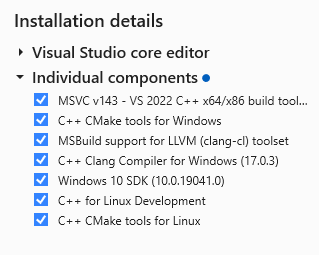
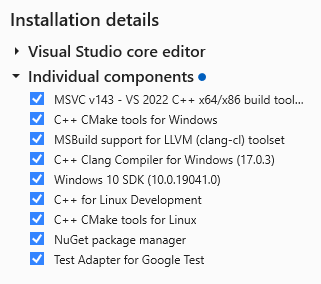
updates

diff --git a/tests/type_system/TestDefenum.cpp b/tests/type_system/TestDefenum.cpp
@@ -33,8 +33,8 @@ TEST_F(DefEnumTest, DebugSimpleEnum) {
     try {
         EnumType* test_enum = parse_deftype_string(code);
         ASSERT_NE(test_enum, nullptr);
-        fmt::print("DEBUG: Enum name: '{}'\n", test_enum->name());
-        EXPECT_EQ(test_enum->name(), "test");
+        fmt::print("DEBUG: Enum name: '{}'\n", test_enum->get_name());
+        EXPECT_EQ(test_enum->get_name(), "test");
     }
     catch (const std::exception& e) {
         fmt::print("ERROR: {}\n", e.what());
@@ -49,7 +49,7 @@ TEST_F(DefEnumTest, BasicEnum) {
 
     EnumType* color_enum = parse_deftype_string(code);
     ASSERT_NE(color_enum, nullptr);
-    EXPECT_EQ(color_enum->name(), "color");
+    EXPECT_EQ(color_enum->get_name(), "color");
     EXPECT_FALSE(color_enum->is_bitfield());
 }
 
@@ -61,7 +61,7 @@ TEST_F(DefEnumTest, BitfieldEnum) {
 
     EnumType* flags_enum = parse_deftype_string(code);
     ASSERT_NE(flags_enum, nullptr);
-    EXPECT_EQ(flags_enum->name(), "flags");
+    EXPECT_EQ(flags_enum->get_name(), "flags");
     EXPECT_TRUE(flags_enum->is_bitfield());
 }
 
@@ -71,7 +71,7 @@ TEST_F(DefEnumTest, EnumWithExplicitValues) {
 
     EnumType* weapon_enum = parse_deftype_string(code);
     ASSERT_NE(weapon_enum, nullptr);
-    EXPECT_EQ(weapon_enum->name(), "weapon");
+    EXPECT_EQ(weapon_enum->get_name(), "weapon");
 }
 
 TEST_F(DefEnumTest, EnumWithType) {
@@ -80,7 +80,7 @@ TEST_F(DefEnumTest, EnumWithType) {
 
     EnumType* small_enum = parse_deftype_string(code);
     ASSERT_NE(small_enum, nullptr);
-    EXPECT_EQ(small_enum->name(), "small");
+    EXPECT_EQ(small_enum->get_name(), "small");
 }
 
 TEST_F(DefEnumTest, EnumWithDocstring) {
@@ -96,7 +96,7 @@ TEST_F(DefEnumTest, EnumWithDocstring) {
         DefinitionMetadata metadata;
         EnumType* state_enum = parse_deftype_string(code, &metadata);
         ASSERT_NE(state_enum, nullptr);
-        EXPECT_EQ(state_enum->name(), "state");
+        EXPECT_EQ(state_enum->get_name(), "state");
         EXPECT_TRUE(metadata.has_docstring());
         EXPECT_EQ(metadata.get_docstring_or_empty(), "State machine states");
     }
@@ -111,7 +111,7 @@ TEST_F(DefEnumTest, MixedAutoAndExplicitValues) {
 
     EnumType* mixed_enum = parse_deftype_string(code);
     ASSERT_NE(mixed_enum, nullptr);
-    EXPECT_EQ(mixed_enum->name(), "mixed");
+    EXPECT_EQ(mixed_enum->get_name(), "mixed");
 }
 
 
@@ -150,7 +150,7 @@ TEST_F(DefEnumTest, EmptyEnum) {
     try {
         EnumType* empty_enum = parse_deftype_string(code);
         ASSERT_NE(empty_enum, nullptr);
-        EXPECT_EQ(empty_enum->name(), "empty");
+        EXPECT_EQ(empty_enum->get_name(), "empty");
     }
     catch (const std::exception& e) {
         FAIL() << "Exception: " << e.what();
@@ -163,7 +163,7 @@ TEST_F(DefEnumTest, EnumWithFalseBitfield) {
     try {
         EnumType* normal_enum = parse_deftype_string(code);
         ASSERT_NE(normal_enum, nullptr);
-        EXPECT_EQ(normal_enum->name(), "normal");
+        EXPECT_EQ(normal_enum->get_name(), "normal");
         EXPECT_FALSE(normal_enum->is_bitfield());
     }
     catch (const std::exception& e) {
@@ -181,7 +181,7 @@ TEST_F(DefEnumTest, LargeEnum) {
     try {
         EnumType* big_enum = parse_deftype_string(code);
         ASSERT_NE(big_enum, nullptr);
-        EXPECT_EQ(big_enum->name(), "big-enum");
+        EXPECT_EQ(big_enum->get_name(), "big-enum");
     }
     catch (const std::exception& e) {
         FAIL() << "Exception: " << e.what();
@@ -194,7 +194,7 @@ TEST_F(DefEnumTest, EnumWithNegativeValues) {
     try {
         EnumType* signed_enum = parse_deftype_string(code);
         ASSERT_NE(signed_enum, nullptr);
-        EXPECT_EQ(signed_enum->name(), "signed");
+        EXPECT_EQ(signed_enum->get_name(), "signed");
     }
     catch (const std::exception& e) {
         FAIL() << "Exception: " << e.what();
@@ -225,7 +225,7 @@ TEST_F(DefEnumTest, SimpleSymbolEntries) {
     try {
         EnumType* simple_enum = parse_deftype_string(code);
         ASSERT_NE(simple_enum, nullptr);
-        EXPECT_EQ(simple_enum->name(), "simple");
+        EXPECT_EQ(simple_enum->get_name(), "simple");
 
         // Проверяем что entries создались
         auto& entries = simple_enum->entries();

diff --git a/tests/type_system/TestDeftype.cpp b/tests/type_system/TestDeftype.cpp
@@ -62,8 +62,8 @@ TEST_F(DefTypeTest, BasicStructure) {
 
     auto structure = dynamic_cast<StructureType *>(result.type_info);
     ASSERT_NE(structure, nullptr);
-    EXPECT_EQ(structure->name(), "test-structure");
-    EXPECT_EQ(structure->parent(), "structure");
+    EXPECT_EQ(structure->get_name(), "test-structure");
+    EXPECT_EQ(structure->get_parent(), "structure");
 }
 
 TEST_F(DefTypeTest, BasicType) {
@@ -79,8 +79,8 @@ TEST_F(DefTypeTest, BasicType) {
 
     auto basic = dynamic_cast<BasicType *>(result.type_info);
     ASSERT_NE(basic, nullptr);
-    EXPECT_EQ(basic->name(), "test-basic");
-    EXPECT_EQ(basic->parent(), "basic");
+    EXPECT_EQ(basic->get_name(), "test-basic");
+    EXPECT_EQ(basic->get_parent(), "basic");
 }
 
 TEST_F(DefTypeTest, BitfieldType) {
@@ -96,8 +96,8 @@ TEST_F(DefTypeTest, BitfieldType) {
 
     auto bitfield = dynamic_cast<BitFieldType *>(result.type_info);
     ASSERT_NE(bitfield, nullptr);
-    EXPECT_EQ(bitfield->name(), "test-bitfield");
-    EXPECT_EQ(bitfield->parent(), "integer");
+    EXPECT_EQ(bitfield->get_name(), "test-bitfield");
+    EXPECT_EQ(bitfield->get_parent(), "integer");
 }
 
 TEST_F(DefTypeTest, WithDocstring) {
@@ -111,7 +111,7 @@ TEST_F(DefTypeTest, WithDocstring) {
     DeftypeResult result = parse_deftype_string(code);
 
     ASSERT_NE(result.type_info, nullptr);
-    EXPECT_EQ(result.type_info->name(), "documented-type");
+    EXPECT_EQ(result.type_info->get_name(), "documented-type");
 
     // Проверяем что докстринг сохранился
     EXPECT_TRUE(result.type_info->m_metadata.has_docstring());
@@ -293,7 +293,7 @@ TEST_F(DefTypeTest, Inheritance) {
 
     auto child = dynamic_cast<StructureType *>(child_result.type_info);
     ASSERT_NE(child, nullptr);
-    EXPECT_EQ(child->parent(), "parent-type"); // Должно работать
+    EXPECT_EQ(child->get_parent(), "parent-type"); // Должно работать
 
     // Проверяем что унаследовались поля
     Field parent_field, child_field;

diff --git a/tests/type_system/TestTypeSystem.cpp b/tests/type_system/TestTypeSystem.cpp
@@ -21,19 +21,19 @@ TEST_F(TypeSystemTest, BasicTypeCreation) {
 
     // Проверяем иерархию КАК В ОРИГИНАЛЕ
     Type* int_type = ts->lookup_type("int");
-    EXPECT_EQ(int_type->parent(), "integer");  // int -> integer
+    EXPECT_EQ(int_type->get_parent(), "integer");  // int -> integer
 
     Type* int32_type = ts->lookup_type("int32");
-    EXPECT_EQ(int32_type->parent(), "sinteger");  // int32 -> sinteger
+    EXPECT_EQ(int32_type->get_parent(), "sinteger");  // int32 -> sinteger
 
     Type* sinteger_type = ts->lookup_type("sinteger");
-    EXPECT_EQ(sinteger_type->parent(), "integer");  // sinteger -> integer
+    EXPECT_EQ(sinteger_type->get_parent(), "integer");  // sinteger -> integer
 
     Type* integer_type = ts->lookup_type("integer");
-    EXPECT_EQ(integer_type->parent(), "number");  // integer -> number
+    EXPECT_EQ(integer_type->get_parent(), "number");  // integer -> number
 
     Type* number_type = ts->lookup_type("number");
-    EXPECT_EQ(number_type->parent(), "object");  // number -> object
+    EXPECT_EQ(number_type->get_parent(), "object");  // number -> object
 }
 
 TEST_F(TypeSystemTest, ValueTypeOperations) {
@@ -176,8 +176,8 @@ TEST_F(TypeSystemTest, TypeHierarchy) {
     std::vector<std::string> path;
 
     while (type && type->has_parent()) {
-        path.push_back(type->name());
-        type = ts->lookup_type(type->parent());
+        path.push_back(type->get_name());
+        type = ts->lookup_type(type->get_parent());
     }
     path.push_back("object");
 
@@ -354,7 +354,7 @@ TEST_F(TypeSystemTest, NewMethod) {
 
     const MethodInfo* retrieved_new = test_type->get_new_method_defined_for_type();
     ASSERT_NE(retrieved_new, nullptr);
-    EXPECT_EQ(retrieved_new->name, "new");
+    EXPECT_EQ(retrieved_new->get_name(), "new");
 }
 
 // ============================================================================

diff --git a/common/type_system/Type.hpp b/common/type_system/Type.hpp
@@ -92,6 +92,9 @@ class MethodInfo {
     bool                       only_overrides_docstring = false;
     std::optional<std::string> docstring;
     std::optional<std::string> overlay_name;
+    
+    // ---- Accessors ----
+  const std::string &get_name() const { return name; }
 
     // ---- Comparison ----
     bool operator==(const MethodInfo &other) const;

diff --git a/common/carbon/Export.hpp b/common/carbon/Export.hpp
@@ -1,9 +1,7 @@
 // Common files
 #include "common/carbon/lib/Export.hpp"
 // The .bin and .dc file format
-#include "common/carbon/files/Export.hpp"
-// The module system
-#include "common/carbon/modules/Export.hpp"
+#include "common/carbon/file/Export.hpp"
 // The virtual machine
 #include "common/carbon/vm/Export.hpp"
 // The kernel

diff --git a/tests/carbon/RelocationTest.cpp b/tests/carbon/RelocationTest.cpp
@@ -1,7 +1,7 @@
 // test_relocation.cpp
 #include "gtest/gtest.h"
 #include "carbon/Export.hpp"
-#include "files/RelocatableBuffer.hpp"
+#include "file/RelocatableBuffer.hpp"
 #include "fmt/base.h"
 #include "fmt/format.h"
 #include "lib/Variant.hpp"

diff --git a/common/versions/revision.h b/common/versions/revision.h
@@ -1,2 +1,2 @@
 #define BUILT_TAG ""
-#define BUILT_SHA "d2a0d82"
+#define BUILT_SHA "4d45cf6"
